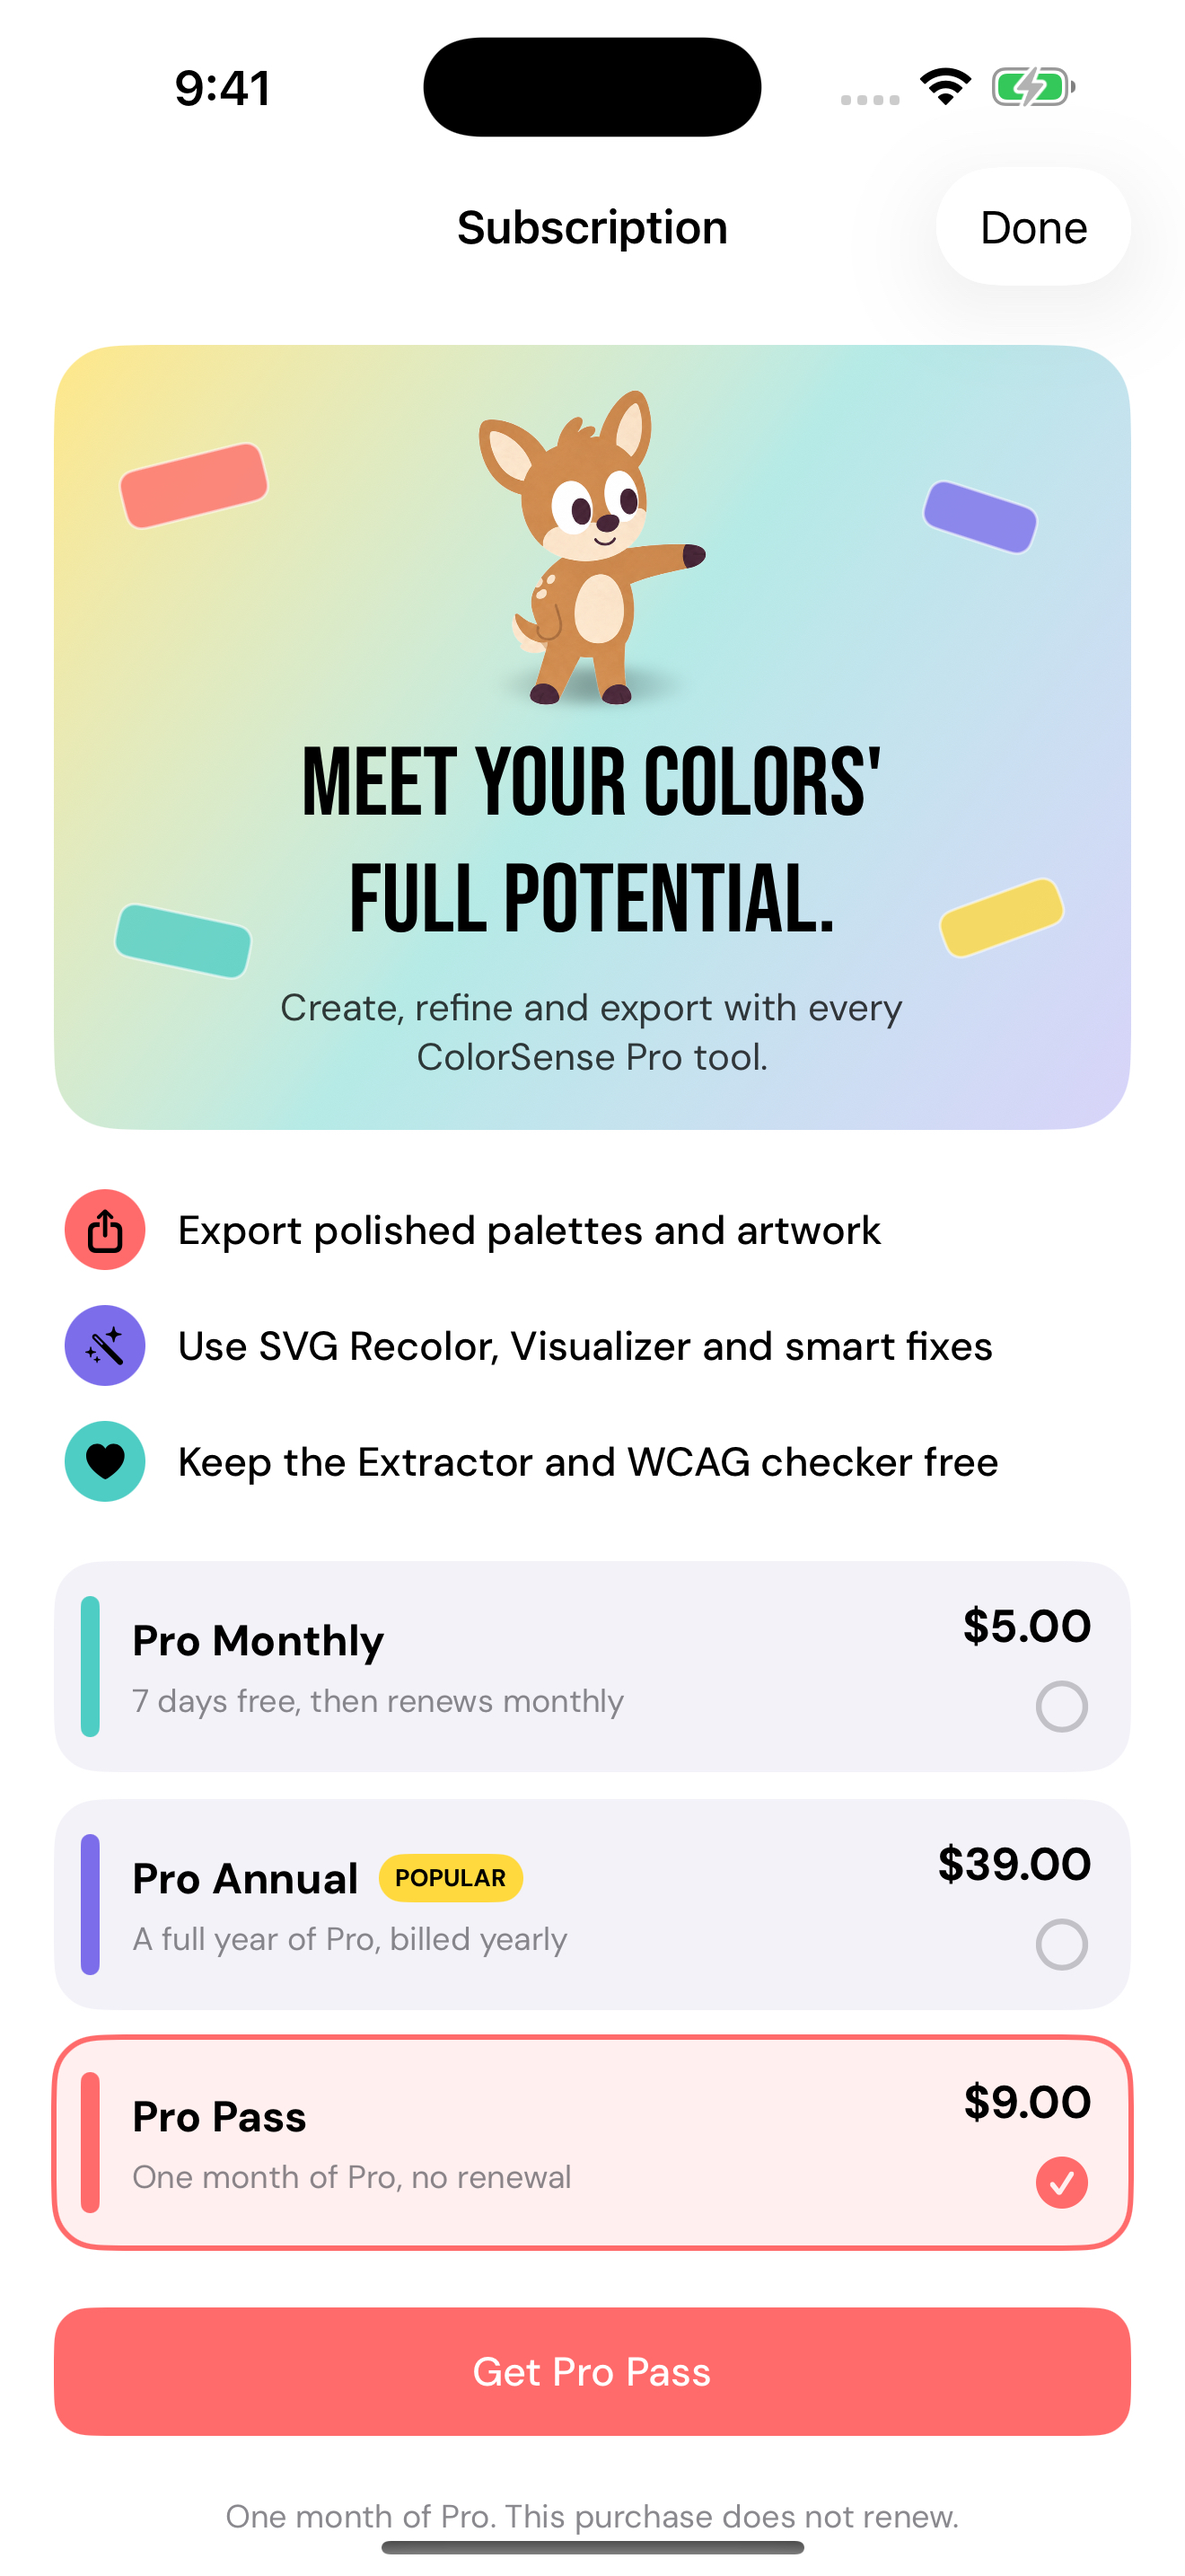
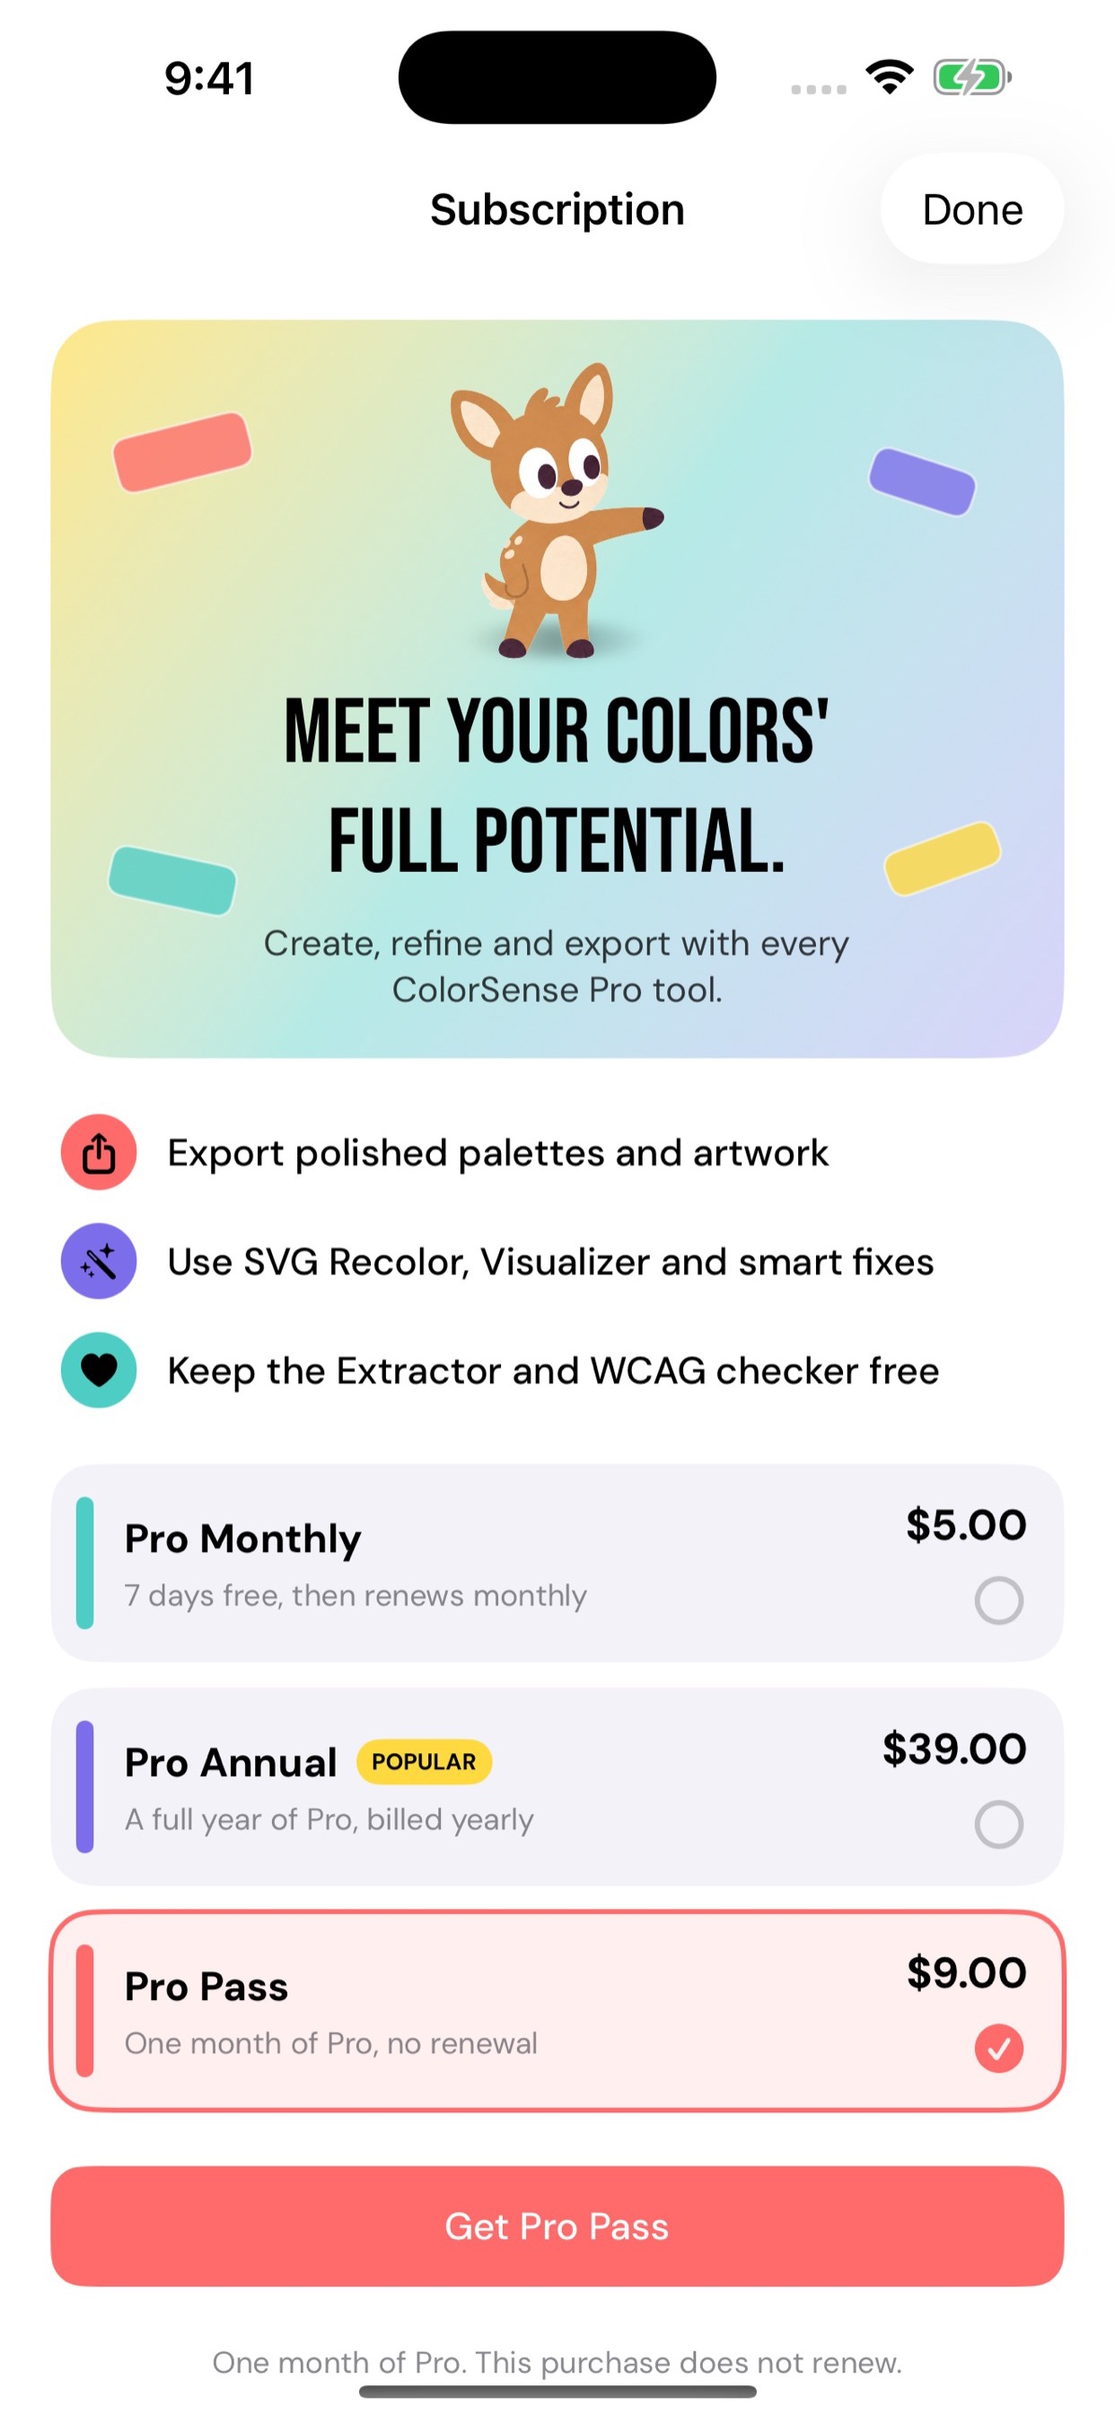
Record IAP review screenshot uploads

diff --git a/docs/APP-STORE-SUBMISSION.md b/docs/APP-STORE-SUBMISSION.md
@@ -111,8 +111,9 @@ and persistence checks passed. Build 2's signed Release archive passed locally, 
 is verified in PostHog, and the physical-device Restore check passed. Build 3's repaired immediate
 purchase path also passed on the physical iPhone: a fresh Monthly purchase activated Pro directly
 without Restore and remained Pro after force-quit and relaunch. The user explicitly parked account
-deletion on 2026-09-09. The three IAP review screenshots were captured and verified on
-2026-09-09; uploading them to the matching App Store Connect records is the remaining portal step.
+deletion on 2026-09-09. The three IAP review screenshots were captured, verified and uploaded to
+their matching App Store Connect records by 2026-09-10. The demo account and remaining submission
+metadata are the next review-readiness work.
 
 ---
 
@@ -213,10 +214,11 @@ consumable does not appear in `Transaction.currentEntitlements` after it is fini
       Pro Pass all use **Match to parent app**.
 - [x] Add final App Review notes to all three StoreKit records. The product-specific notes in
       section 3a were saved in App Store Connect on 2026-09-09.
-- [ ] Add the required App Review screenshot to all three StoreKit records. The three final
-      1320 × 2868 JPEG captures are prepared in `docs/app-store/iap-review/` and mapped in section
-      3a. They still need to be uploaded to their matching App Store Connect records. The app-level
-      demo account also remains to be created and verified.
+- [x] Add the required App Review screenshot to all three StoreKit records. The three final JPEG
+      captures in `docs/app-store/iap-review/` were uploaded to their matching records by
+      2026-09-10. Monthly and Annual use 1320 × 2868; the Pro Pass copy uses Apple's accepted
+      1242 × 2688 size because its consumable IAP form rejected the newer 6.9-inch dimensions.
+      The app-level demo account remains to be created and verified.
 - [ ] Add a signed-transaction endpoint and Apple subscription lifecycle handling to the shared
       backend. Keep `GET /api/me` as the source of truth and make transaction processing idempotent.
       The implementation brief is `docs/replit-storekit-backend-handoff.md`. Replit reported the
@@ -285,14 +287,15 @@ colorsense.online" and that keeps the About screen's Support row out.
 
 The final product-specific notes were saved in each product's **App Review Information** in App
 Store Connect on 2026-09-09. The three product-selected screenshots were captured and verified on
-2026-09-09. They are ready locally and still need to be uploaded to their matching records:
+2026-09-09, then uploaded to their matching records by 2026-09-10:
 
 - **Pro Monthly** → `docs/app-store/iap-review/pro-monthly.jpg`
 - **Pro Annual** → `docs/app-store/iap-review/pro-annual.jpg`
 - **Pro Pass** → `docs/app-store/iap-review/pro-pass.jpg`
 
-Each file is a 1320 × 2868 JPEG without alpha. The image shows its matching product selected and
-the correct purchase button.
+Each file is a JPEG without alpha. Monthly and Annual are 1320 × 2868. Pro Pass is 1242 × 2688,
+an accepted 6.5-inch iPhone size, because the consumable IAP review field rejected its original
+1320 × 2868 copy. Every image shows its matching product selected and the correct purchase button.
 
 **Use one clean capture per product, and do not use one of the six product-page shots.**
 Those six are the store listing (palette, contrast, health, visualizer, SVG, schemes) and none of

diff --git a/docs/app-store/README.md b/docs/app-store/README.md
@@ -19,6 +19,6 @@ Captured September 9, 2026 on the iPhone 17 Pro Max simulator. These JPEGs are f
 
 1. `iap-review/pro-monthly.jpg` — Pro Monthly selected, $5.00, seven-day trial action
 2. `iap-review/pro-annual.jpg` — Pro Annual selected, $39.00, annual action
-3. `iap-review/pro-pass.jpg` — Pro Pass selected, $9.00, one-month pass action
+3. `iap-review/pro-pass.jpg` — Pro Pass selected, $9.00, one-month pass action; 1242 × 2688
 
-All three are 1320 × 2868 JPEG files without alpha. Temporary Debug-only capture flags and fixed review prices were removed from the app source after capture. The files are ready for upload to their matching App Store Connect records.
+Monthly and Annual are 1320 × 2868 JPEG files. Pro Pass is 1242 × 2688 because its consumable IAP form rejected the newer 6.9-inch size; 1242 × 2688 is an accepted iPhone screenshot size. All three have no alpha channel. Temporary Debug-only capture flags and fixed review prices were removed from the app source after capture. The three files were uploaded to their matching App Store Connect records by September 10, 2026.
